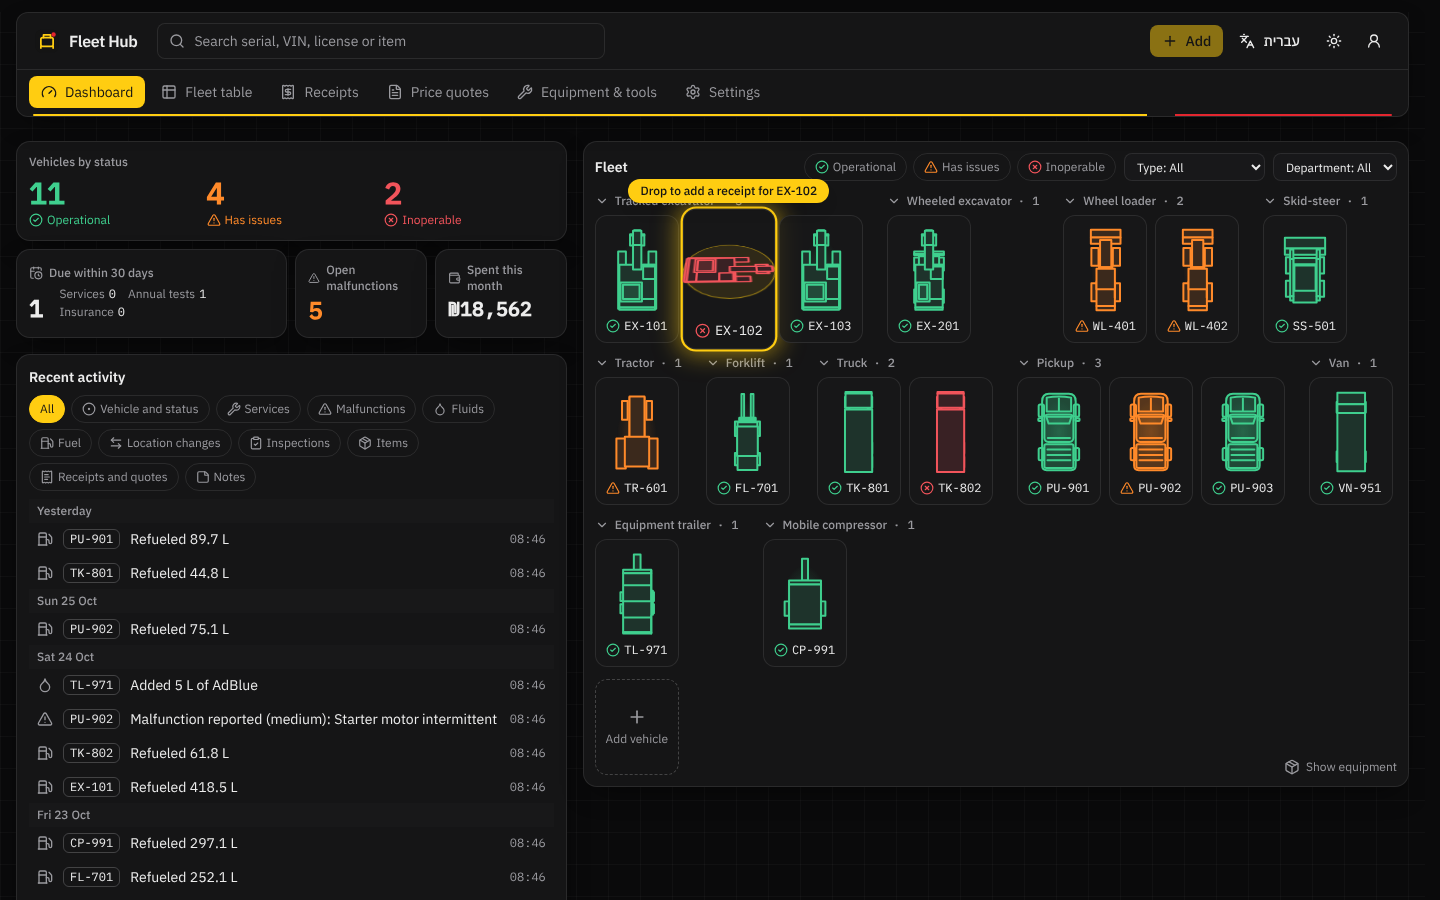
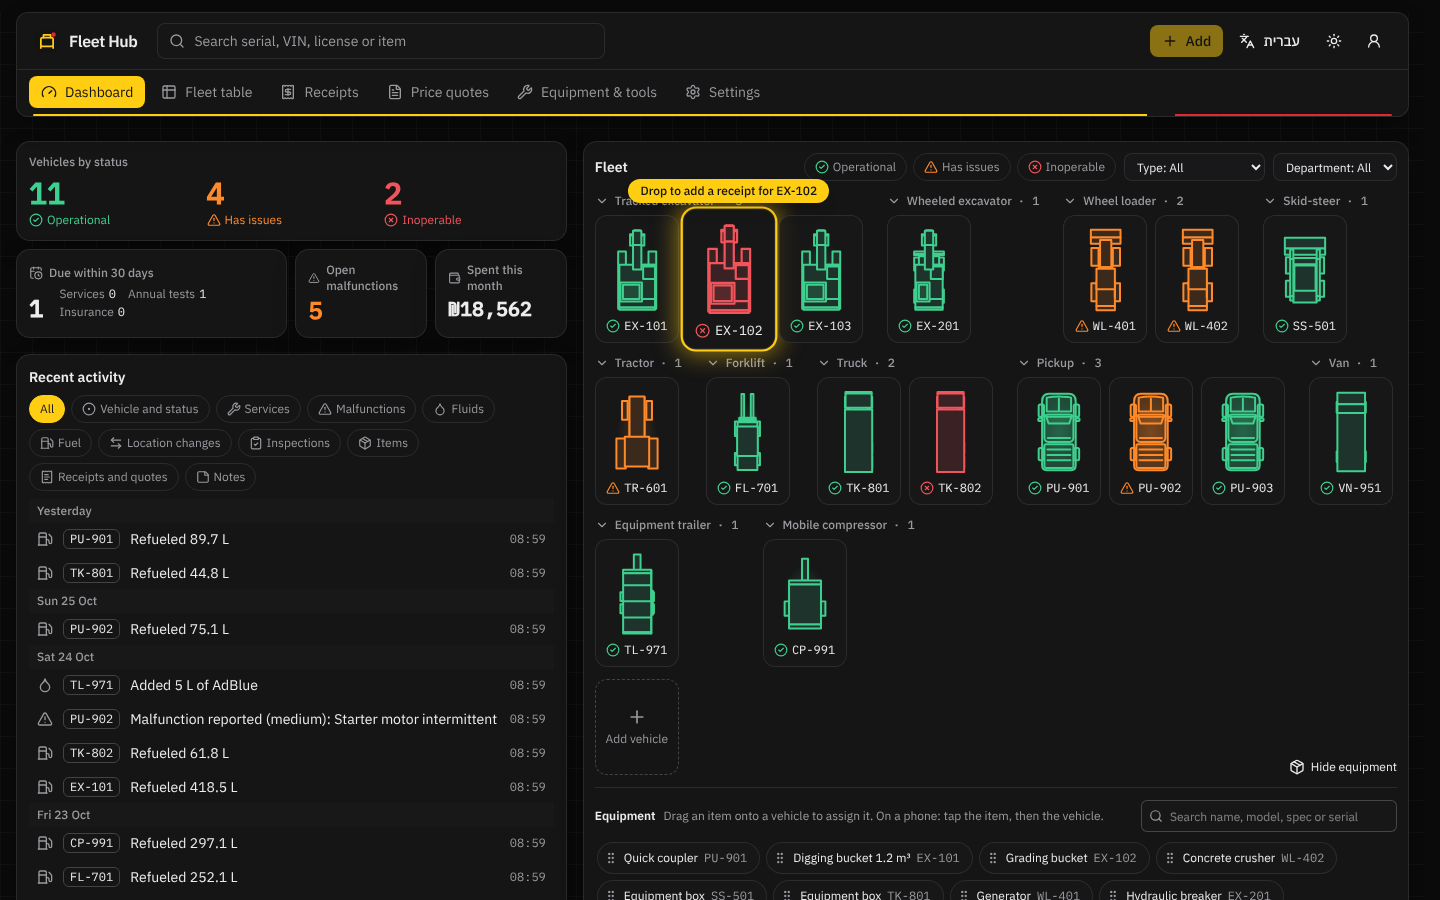
fix(web): tile under a dragged file only grows and glows
The tilted, turning top view still read as flat, so drop the tilt and spin.

Claude-Session: https://claude.ai/code/session_01TAdu5V8VbAGckUwgjf7BNp

Changed region(s): [[0.4062, 0.9022, 0.9375, 1.0], [0.4688, 0.2489, 0.5625, 0.3733], [0.875, 0.84, 0.9688, 0.8711]]

diff --git a/apps/web/src/fleet/FleetGrid.tsx b/apps/web/src/fleet/FleetGrid.tsx
@@ -25,7 +25,7 @@ import { VehicleVisual } from '@/drawings/VehicleVisual';
 import { Button } from '@/components/ui/button';
 import { isolate } from '@/lib/bidi';
 import { cn } from '@/lib/cn';
-import { fade, prefersReducedMotion, spring } from '@/lib/motion';
+import { fade, prefersReducedMotion } from '@/lib/motion';
 import { useItemMove } from '@/money/api';
 import { hasFiles, hasItem, ITEM_MIME } from '@/money/drag';
 import { lookupName, useLookups, type Tile } from './data';
@@ -40,14 +40,10 @@ const ReceiptForm = lazy(() =>
 );
 const EquipmentTray = lazy(() => import('./EquipmentTray'));
 
-/** Isometric tilt: the top view tipped onto a turntable. */
-const ISO_TILT = 54.74;
-
 type DropWhat = 'file' | 'item';
 
 /** What a tile needs to take a dropped file or item, or a tapped item on a phone. */
 interface DropHandlers {
-  reduced: boolean;
   canAssign: boolean;
   picking: boolean;
   onFiles: (serial: string, files: File[]) => void;
@@ -209,7 +205,6 @@ function TileButton({
       window.removeEventListener('drop', reset);
     };
   }, [over]);
-  const tilted = !!over && !drop.reduced;
 
   return (
     <motion.li
@@ -259,37 +254,16 @@ function TileButton({
         />
         <div
           className="pointer-events-none grid place-items-center"
-          style={{ height: TILE_BOX.height, perspective: 320 }}
+          style={{ height: TILE_BOX.height }}
         >
-          <motion.div
-            className="relative"
-            style={{ transformStyle: 'preserve-3d' }}
-            initial={false}
-            animate={{ rotateX: tilted ? ISO_TILT : 0 }}
-            transition={spring.smooth}
-          >
-            <div className={cn('relative', tilted && 'tile-turntable')}>
-              {tilted && (
-                <span
-                  aria-hidden
-                  className="border-accent/60 bg-accent/10 absolute top-1/2 left-1/2 -translate-x-1/2 -translate-y-1/2 rounded-full border"
-                  style={{ width: TILE_BOX.height, height: TILE_BOX.height }}
-                />
-              )}
-              <div
-                data-tile-visual={tile.serial}
-                className="relative"
-                style={{ opacity: carried ? 0 : 1 }}
-              >
-                <VehicleVisual
-                  type={tile.type}
-                  view="top"
-                  status={tile.status}
-                  size={tileSize(tile.type)}
-                />
-              </div>
-            </div>
-          </motion.div>
+          <div data-tile-visual={tile.serial} style={{ opacity: carried ? 0 : 1 }}>
+            <VehicleVisual
+              type={tile.type}
+              view="top"
+              status={tile.status}
+              size={tileSize(tile.type)}
+            />
+          </div>
         </div>
         <span className="flex items-center gap-1 text-xs">
           <Icon aria-hidden className={cn('size-3.5', tone)} />
@@ -403,7 +377,6 @@ export function FleetGrid({ tiles, activeSerial, away }: GridProps) {
     if (item.from !== serial) setConfirm({ item, serial });
   };
   const drop: DropHandlers = {
-    reduced,
     canAssign: canAdd,
     picking: !!picked,
     onFiles: (serial, files) => setReceipt({ serial, files }),

diff --git a/apps/web/e2e/screenshots.spec.ts b/apps/web/e2e/screenshots.spec.ts
@@ -18,11 +18,10 @@ async function newPage(
   browser: Browser,
   viewport: { width: number; height: number },
   lang: string,
-  reduced: boolean,
 ) {
   const context = await browser.newContext({
     viewport,
-    reducedMotion: reduced ? 'reduce' : 'no-preference',
+    reducedMotion: 'reduce',
     storageState: 'test-results/.auth/admin.json',
   });
   await context.addInitScript((l) => localStorage.setItem('fh.lang', l), lang);
@@ -41,7 +40,7 @@ for (const [sizeName, viewport] of Object.entries(SIZES)) {
   for (const lang of ['en', 'he'] as const) {
     test(`${lang} ${sizeName}`, async ({ browser }) => {
       test.setTimeout(120_000);
-      const { context, page } = await newPage(browser, viewport, lang, true);
+      const { context, page } = await newPage(browser, viewport, lang);
       const shot = (name: string, p = page) =>
         p.screenshot({ path: `${OUT}/${name}-${lang}-${sizeName}.png` });
 
@@ -70,22 +69,14 @@ for (const [sizeName, viewport] of Object.entries(SIZES)) {
       await open(page, '/equipment', 'item-row');
       await shot('equipment');
 
-      // Reduced motion: the tile only grows and glows.
+      // A file held over a tile: it grows and glows.
       await open(page, '/', 'fleet-grid');
       await page.getByTestId('tray-toggle').click();
       await page.getByTestId('tray-item').first().waitFor();
       await holdFile(page, 'EX-102');
       await page.waitForTimeout(400);
-      await shot('tile-drop-reduced-motion');
+      await shot('tile-drop');
       await context.close();
-
-      // Full motion: it also tips onto a turntable and turns.
-      const moving = await newPage(browser, viewport, lang, false);
-      await open(moving.page, '/', 'fleet-grid');
-      await holdFile(moving.page, 'EX-102');
-      await moving.page.waitForTimeout(1500);
-      await shot('tile-drop', moving.page);
-      await moving.context.close();
     });
   }
 }

diff --git a/apps/web/src/styles.css b/apps/web/src/styles.css
@@ -176,18 +176,3 @@
     align-items: start;
   }
 }
-
-/* A dashboard tile with a file or an item over it: its tilted top view turns in place. */
-@keyframes fh-turntable {
-  to {
-    transform: rotateZ(360deg);
-  }
-}
-.tile-turntable {
-  animation: fh-turntable 6s linear infinite;
-}
-@media (prefers-reduced-motion: reduce) {
-  .tile-turntable {
-    animation: none;
-  }
-}

diff --git a/docs/PROGRESS.md b/docs/PROGRESS.md
@@ -11,7 +11,7 @@
 
 ### Phase 6 — 2026-10-27
 
-- Shipped: Receipts (`/receipts`): multi-file upload (one receipt per file, or one receipt with several pages), camera on phones, vehicle tags picked from mini drawings, date, vendor, amount, category, type and an optional linked record; grid of thumbnails or a table; filters by vehicle, category, approval, date and amount; totals overall, per vehicle and per month; Excel export; drop files on the page to add them. Viewers send receipts for approval; editors and admins approve or reject them from a "waiting for approval" banner. Price quotes (`/quotes`): supplier, dates, line items with conditions and totals, status flow, several vehicles per quote, file attachment, admin-only visibility control; compare one part across quotes (cheapest marked) or 2–4 whole quotes side by side; Excel export of quotes and lines. Equipment & tools (`/equipment`): the catalog with kinds, filters, assign / move / back to the yard, retire, and each item's history; Excel export. Each vehicle's Documents and Quotes tabs show the same lists for that vehicle. Dashboard: drop a file on a tile to start a receipt for it (the tile grows, glows, tips onto a turntable and turns; grow and glow only with reduced motion); editors open an equipment tray and drag an item onto a tile (or on a phone tap the item, then the tile) and confirm.
+- Shipped: Receipts (`/receipts`): multi-file upload (one receipt per file, or one receipt with several pages), camera on phones, vehicle tags picked from mini drawings, date, vendor, amount, category, type and an optional linked record; grid of thumbnails or a table; filters by vehicle, category, approval, date and amount; totals overall, per vehicle and per month; Excel export; drop files on the page to add them. Viewers send receipts for approval; editors and admins approve or reject them from a "waiting for approval" banner. Price quotes (`/quotes`): supplier, dates, line items with conditions and totals, status flow, several vehicles per quote, file attachment, admin-only visibility control; compare one part across quotes (cheapest marked) or 2–4 whole quotes side by side; Excel export of quotes and lines. Equipment & tools (`/equipment`): the catalog with kinds, filters, assign / move / back to the yard, retire, and each item's history; Excel export. Each vehicle's Documents and Quotes tabs show the same lists for that vehicle. Dashboard: drop a file on a tile to start a receipt for it (the tile grows and glows); editors open an equipment tray and drag an item onto a tile (or on a phone tap the item, then the tile) and confirm.
 - API: `/api/receipts` (list with totals, detail, add, edit, delete / restore, review), `/api/quotes` (list, suppliers, parts, compare, detail, add, edit, vehicles, status, visibility, delete / restore), `/api/items` (catalog, detail with history, add, edit, retire / unretire). One visibility filter (`lib/quote-visibility.ts`) serves every quote route, a vehicle's tab and count, search and the timeline.
 - Database (migration `phase6_receipts_quotes`): `Document.approvedAt` / `approvedById` (existing receipts backfilled as approved), `Item.retiredAt`, `Quote.createdById` now required (orphans given to the first admin), event type `QUOTE_UNLINKED`. No new packages.
 - Receipts join the cost columns and the vehicle's maintenance cost this year: approved, not linked to a record, fuel category as fuel and the rest as maintenance, shared receipts split evenly.
@@ -101,7 +101,7 @@
 - The table's settings live in the URL (`?view=` plus `?s=` for unsaved changes), so Back, reload and shared links keep them. A view's "(changed)" mark shows when the screen differs from the saved view.
 - Maintenance cost in the table = service and repair (malfunction) costs, the same rule as the vehicle page's "maintenance cost this year". Receipts join in Phase 6.
 - Phase 6 (2026-10-27, from Sagi): new quotes start Standard; creators keep seeing their quote when an admin makes it Admins only, but it is then locked (only admins edit or delete it); public quotes are read-only for non-creators; viewers can add receipts as suggestions that editors and admins approve; unlinked receipts count in the cost columns. Approving or ordering a quote needs an editor or admin.
-- Dropping a file on a tile tilts and turns the flat top view with CSS 3D; the 3D isometric drawings only model the side facing the viewer, so they can't spin a full turn.
+- Tile drop (2026-10-27, Sagi): the tilted, turning top view still looked flat, so a tile only grows about 10% and glows while a file or item is over it. (The 3D isometric drawings only model the side facing the viewer, so they can't spin a full turn either.)
 - Start codes stay out of the fleet table completely, including the "has a start code" flag (SPEC A7).
 - API is bundled with esbuild (workspace code inlined, npm packages external) so `packages/shared` stays plain TypeScript with no build step.
 

diff --git a/docs/SPEC.md b/docs/SPEC.md
@@ -120,7 +120,7 @@ One hub for every receipt and invoice, each tagged with its vehicle's serial num
 - Receipts also appear in each vehicle's Documents tab.
 - Editors and admins add receipts directly. Viewers add them as suggestions: marked "Suggested", left out of every total, until an editor or admin approves (or rejects) them.
 - Cost columns and the vehicle's maintenance cost include approved receipts that aren't linked to a record (a linked receipt is already counted in its record). Fuel-category receipts count as fuel, the rest as maintenance. A receipt shared by several vehicles is split evenly between them.
-- Dropping a file on a dashboard tile opens a new receipt for that vehicle. While the file is over the tile, it grows about 10% and glows, and its top view tips onto a turntable and turns slowly (with reduced motion: grow and glow only).
+- Dropping a file on a dashboard tile opens a new receipt for that vehicle. While the file is over the tile, it grows about 10% and glows; the top view stays flat.
 - Later (not in scope now): auto-fill date, vendor and total from the photo.
 
 ### 5.6 Price quotes
